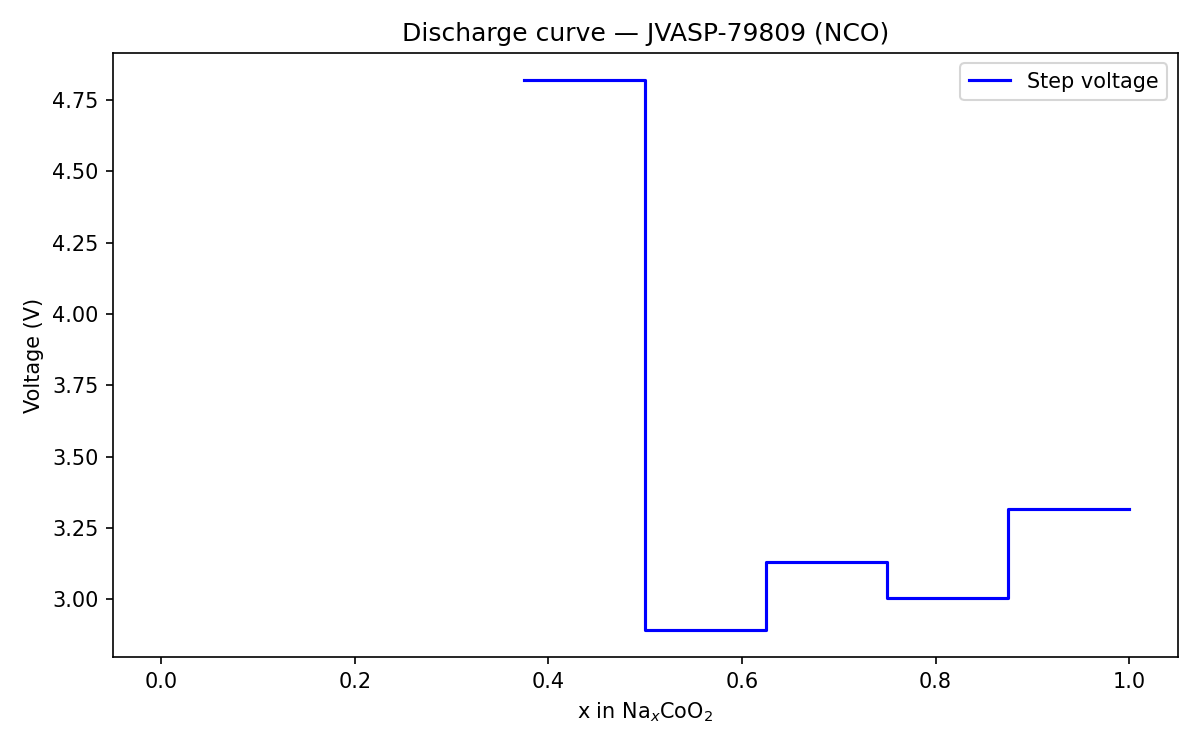
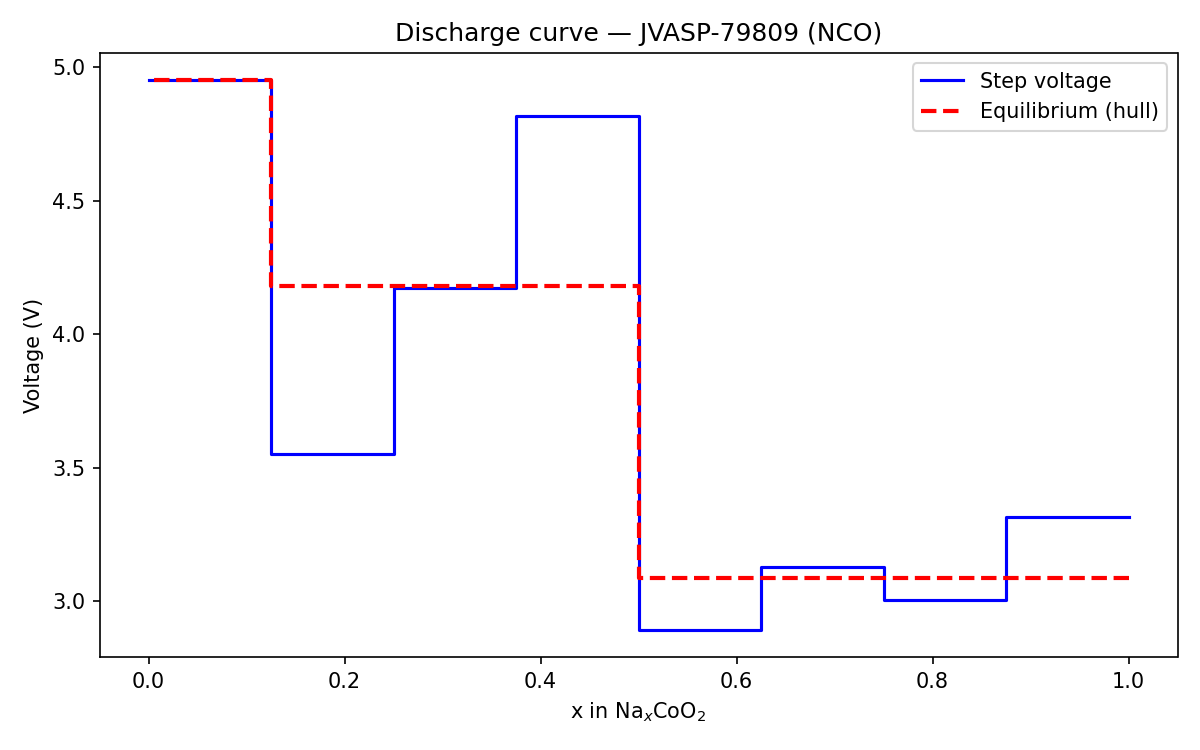
Add completed NaCoO2 chain.

diff --git a/batterymat/screening_cathode/dft_inputs/README_revision_campaigns.md b/batterymat/screening_cathode/dft_inputs/README_revision_campaigns.md
@@ -9,7 +9,7 @@
 > -0.9778 eV/atom optB88-vdW Li reference in `Li_sv/static`; the GGA=OR run moved to
 > `Li_sv_optPBEvdW/`). Runners set NCORE per job so it divides the ranks per k-group.
 
-## Status and results (2026-10-01, evening)
+## Status and results (2026-10-02, all runs complete)
 
 Runs on atomgptlab (`/data/jlee859/revision`, cpu partition, VASP 6 `vasp_std`). Results are
 pulled back with the include-list rsync (energies.json, OUTCAR, CONTCAR, OSZICAR, INCAR, POSCAR,
@@ -23,14 +23,13 @@ KPOINTS, POTCAR_spec; never POTCAR) and summarised by `../analysis/revision_volt
 | `JVASP-2017-LCO` (original, GGA=OR = optPBE-vdW) | kept for comparison | full 4.18 V, x 1->0.5 4.01 V |
 | B. `JVASP-144791-NMC-vdW` | complete, 17/17 converged, no intervention (ISIF=2 after step 0, like the PBE chain) | full **4.76 V** (PBE+U 4.40; exp ~3.7); x 1->0.5 4.28 (PBE 3.94); x 0.5->0 5.24 (PBE 4.86). Near-uniform +0.36 V shift at fixed cell. Cell-relaxed endpoints (ISIF=3 at Li8 and Li0, `extra_2026-10-01/NMC-{PBE,vdW}-ISIF3/`): PBE+U 3.73 / 4.63 / 4.18 V (x 1->0.5 / 0.5->0 / full), optB88 4.02 / 4.88 / 4.45 V; cells contract 5% and 9-10%. So the fixed-cell protocol adds ~0.2 V, optB88 sits 0.25-0.38 V above PBE either way, and the ~0.9 V jump at x=0.5 persists in all four. PBE+U fixed-cell 4.40 V stays the benchmark (JARVIS spacegroup is P1, so the rule routes it to PBE) |
 | C. `spotcheck/` | 28/30 converged (6 delithiated endpoints restarted from their last structure in `extra_2026-10-01/spotcheck-restart/`; Li8MnO6 and Li7FeO6 still drifting after 500 steps) | all: MAE 0.88 V, ME +0.68, Spearman 0.90; redox-metal hosts (n=14): MAE 0.54, offset +0.35, scatter 0.43, Spearman 0.94 (`analysis/spotcheck_stats.json`) |
-| D. `JVASP-79809-NCO` (Na) | steps 0 to 5 converged (step 5 needed a restart after the 24 h limit, ~150 ionic steps); step 6 running on the 7-day script | Na8->Na4: **3.09 V** (exp ~2.9 over x 1->0.5, Lei et al. 2014), +0.19 V. Step Na4->Na3 = 4.82 V (outside measured range) |
+| D. `JVASP-79809-NCO` (Na) | complete, 9/9 states; all converged except step 6 (Na2), which hit NSW = 200; cell -20% at CoO2 | Na8->Na4: **3.09 V** (exp ~2.9 over x 1->0.5, Lei et al. 2014), +0.19 V. Full range **3.73 V** (endpoints converged) against 3.17 V from the force-field screen (FF 0.56 V low); Na4->Na0 4.37 V; step voltages 3.32 / 3.00 / 3.13 / 2.89 / 4.82 / 4.17 / 3.55 / 4.95 V |
 | D. `JVASP-11340-MMO` (Mg) | complete; steps 0 to 15 converged, step 16 (Mg0) hit NSW = 200 unconverged | Mg16->Mg10: **3.10 V** vs ~3.4 V (Okamoto et al. 2015), -0.30 V. Hull 3.08 / 3.11 / 3.32 / 3.43 / 3.66 V over Mg16->Mg1 (the unconverged Mg0 step excluded); Mg16->Mg1 3.22 V |
 | D. metal references | complete | Na: PBE -1.31054, optB88 +0.91960; Mg: PBE -1.50576, optB88 +1.10509 eV/atom (in `dft_prep._E_ION_METAL`) |
 | Li optB88 reference `JVASP-913-Li/Li_sv_optB88vdW` | complete | -0.97791 eV/atom (confirms -0.9778) |
 | `JVASP-{141543,154749,77457,116849}-B88` (true-optB88 reruns of the prospective runs) | all complete | Rb2LiFeF6 A 6.127 V, B 6.128 V (optPBE 6.03); LiCa2Ag 0.446 V (optPBE 0.41); LiV2F7 4.918 V (optPBE 4.84). Prospective FF-vs-DFT MAE 0.88 -> 0.90 V |
 
-Local copies of the running chains are only refreshed when results are pulled, so the local
-`energies.json` of NCO lags the cluster.
+All chains are complete and the local copies are current (2026-10-02).
 
 VASP input bundles for four new campaigns answering the referee reports. Everything here
 was generated on 2026-09-24 with `../dft_prep.py` (see "Changes to dft_prep.py" below) and

diff --git a/batterymat/screening_cathode/analysis/revision_voltages.md b/batterymat/screening_cathode/analysis/revision_voltages.md
@@ -5,7 +5,7 @@
 | LiCoO2, optPBE-vdW+U (original run) | optpbevdw | 8->0 of 8 | 4.18 |  | 4.01, 4.23, 4.47 |  |
 | NMC cell, optB88-vdW+U | optb88vdw | 16->0 of 16 | 4.76 |  | 4.10, 4.20, 4.34, 4.46, 5.18, 5.20, 5.24, 5.25, 5.33, 5.34 |  |
 | NMC cell, PBE+U (original run) | pbe | 16->0 of 16 | 4.40 |  | 3.52, 3.97, 4.08, 4.18, 4.86 |  |
-| O3-NaCoO2, optB88-vdW+U | optb88vdw | 8->3 of 8 | 3.43 | 8->4: 3.09 | 3.09, 4.82 |  |
+| O3-NaCoO2, optB88-vdW+U | optb88vdw | 8->0 of 8 | 3.73 | 8->4: 3.09 | 3.09, 4.18, 4.95 | step_06_Na2 |
 | MgMn2O4, PBE+U | pbe | 16->0 of 16 | 3.24 | 16->10: 3.10 | 3.08, 3.11, 3.32, 3.43, 3.60 | step_16_Mg0 |
 | Rb2LiFeF6 (A), optB88-vdW+U | optb88vdw | 2->0 of 2 | 6.13 |  | 6.13 |  |
 | Rb2LiFeF6 (B), optB88-vdW+U | optb88vdw | 2->0 of 2 | 6.13 |  | 6.13 |  |
